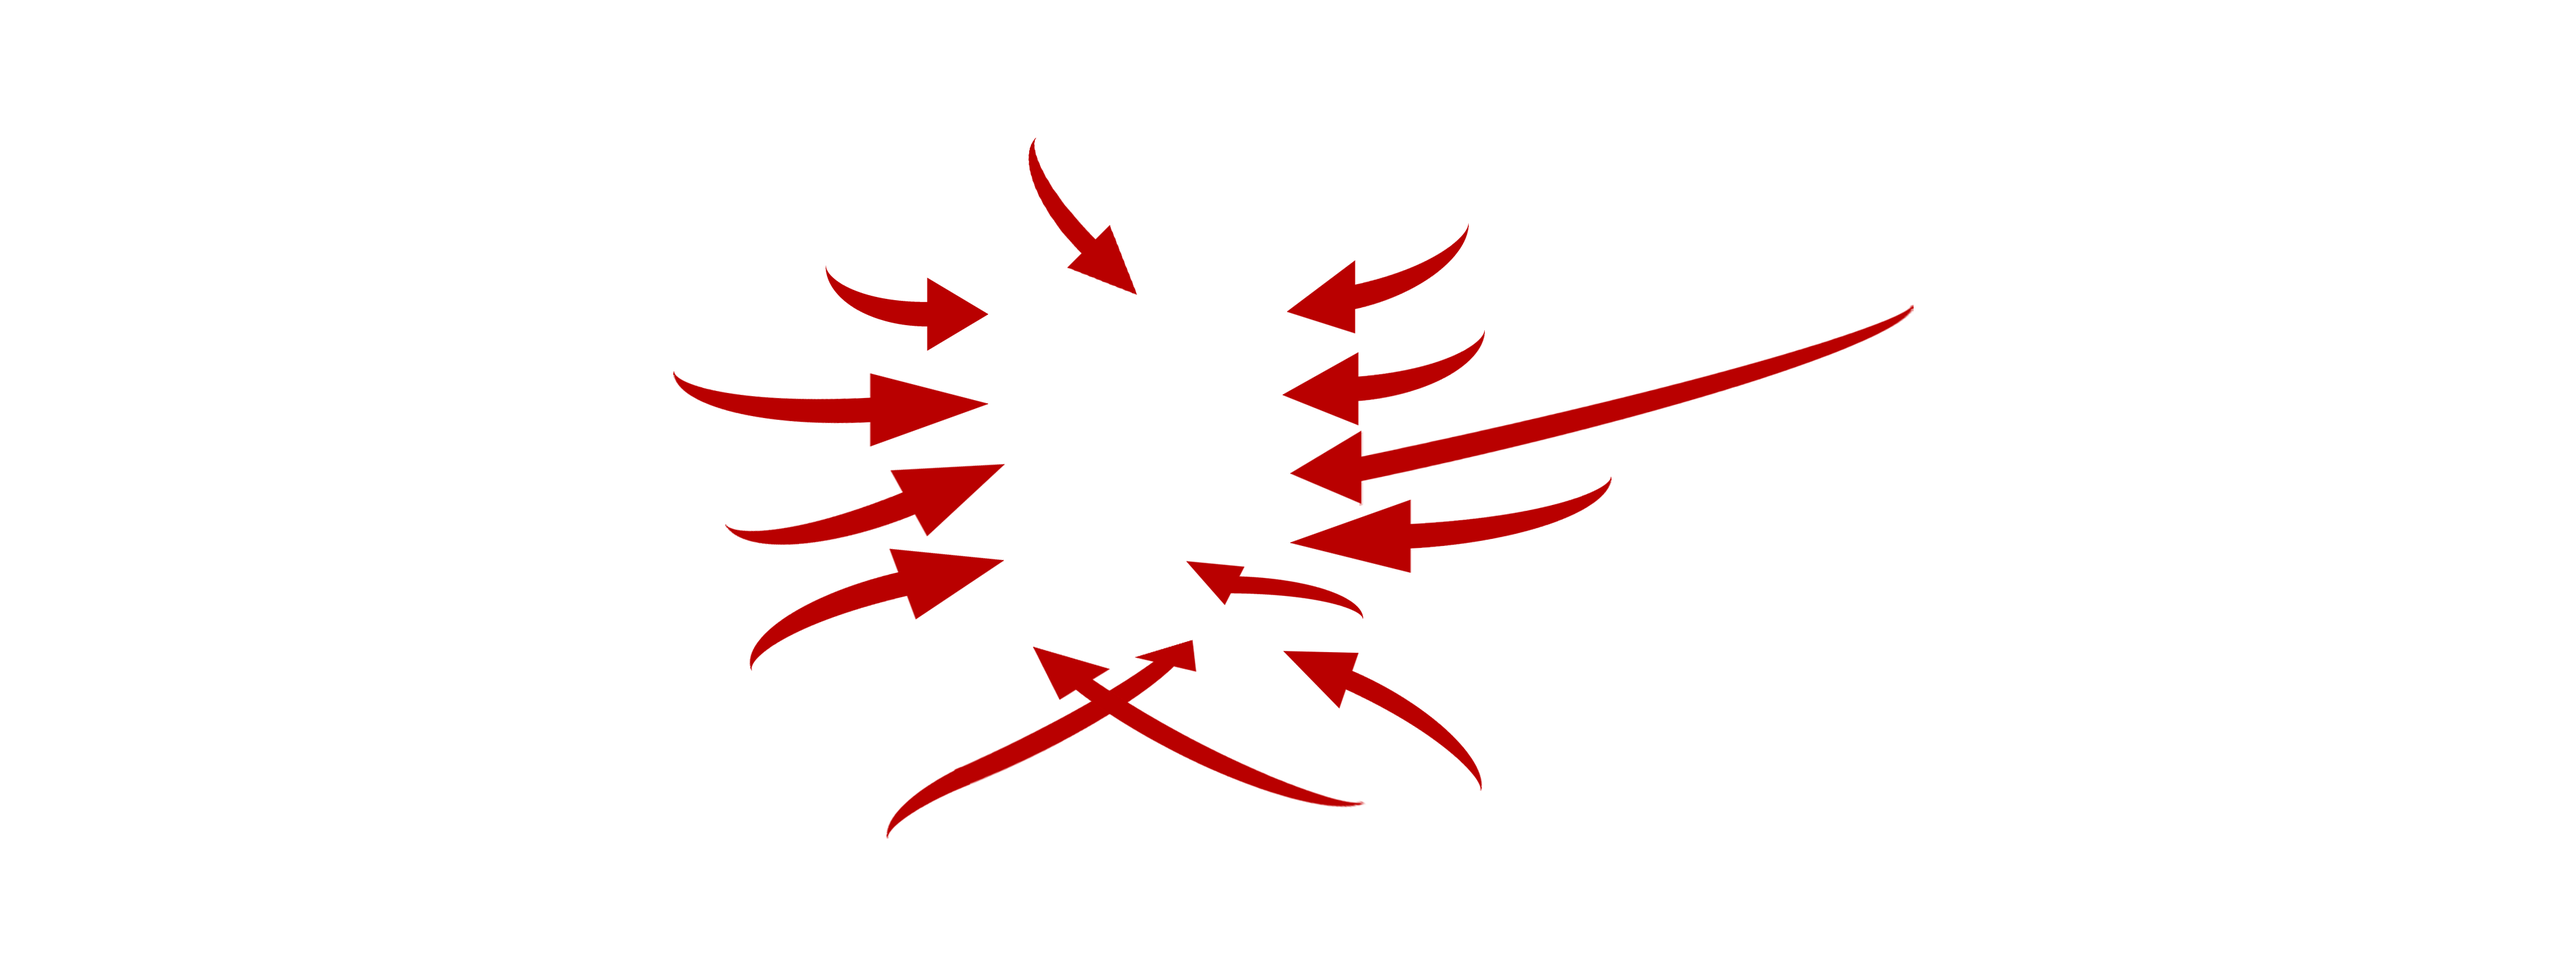
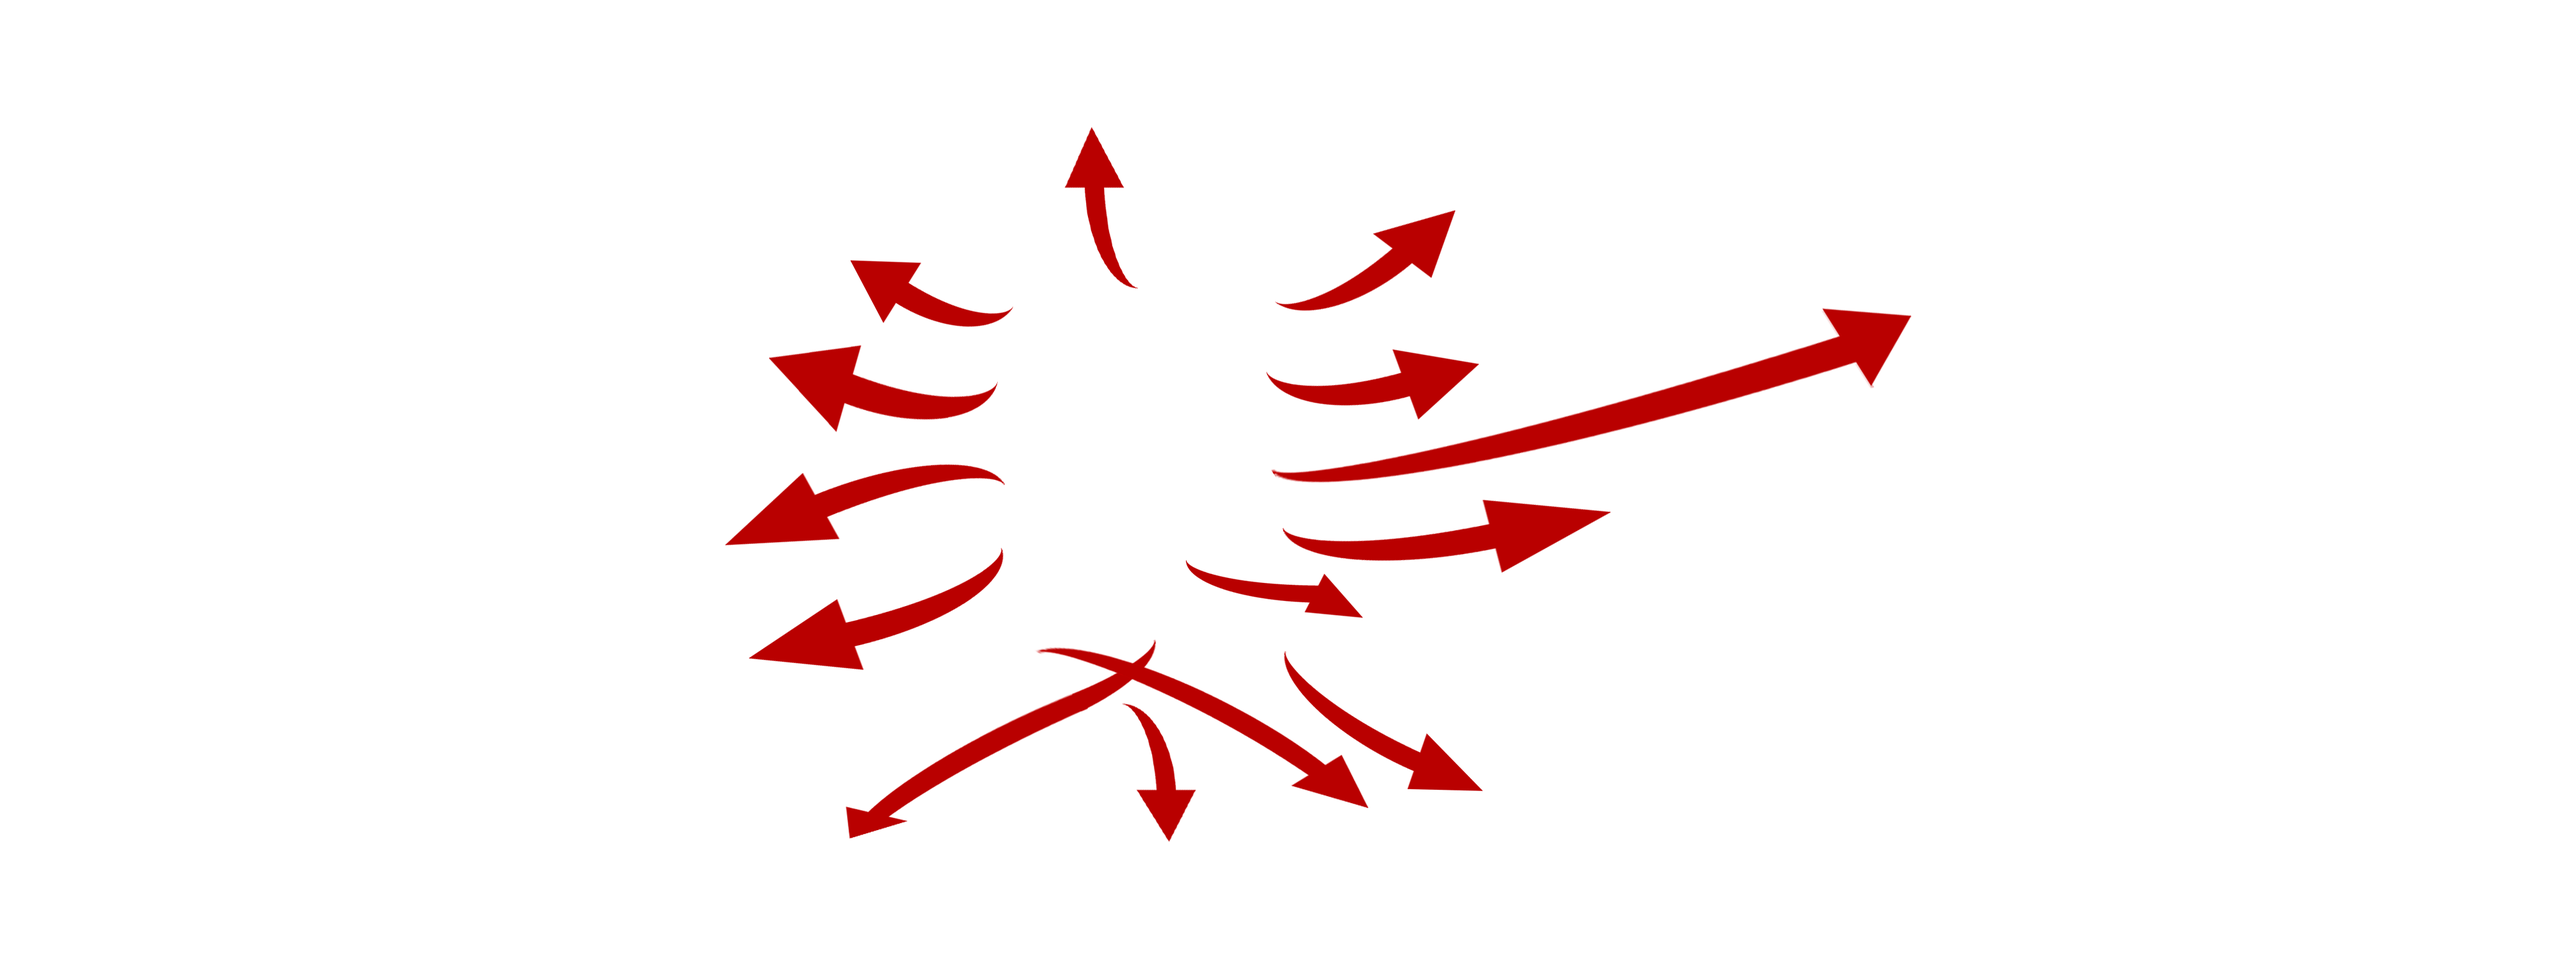
New tutorial & stability
Former-commit-id: 129ea352972af63821454c0f313ff1489410b518
Former-commit-id: 602a914253f8c2ef6c4f3580ddaa24cfcde0cdfe

diff --git a/src/node-drawing.js b/src/node-drawing.js
@@ -11,7 +11,7 @@ function DrawingManager(config) {
 	this.newDrawingObject = {};
 	this.style = {fill: "none", stroke: "white", "stroke-width": "5px", "stroke-linecap": "round"};
 	this.selectionBoxStyle = {fill: "none", stroke: "white", "stroke-width": "5px","stroke-dasharray": "10,10"};
-	this.drawingMode = true;
+	this.drawingMode = false;
 	this.drawState = [{id: "drawing_1",type: "path",options: { points: [{x: 100,y: 200}, {x: 200,y: 300}] }, style: this.style}];
 	this.drawingsUndone = [];
 	this.tilesPosition = [];
@@ -360,6 +360,11 @@ DrawingManager.prototype.enableDrawingMode = function(data) {
 	this.drawingMode = true;
 	this.paletteID = data.id;
 	this.sendStyleToPalette(this.paletteID,this.style);
+}
+DrawingManager.prototype.disableDrawingMode = function(data) {
+	console.log("Drawing mode disabled");
+	this.drawingMode = false;
+	this.paletteID = null;
 }
 
 DrawingManager.prototype.update = function(drawingObject, clientID) {

diff --git a/server.js b/server.js
@@ -780,6 +780,7 @@ function setupListeners(wsio) {
 	// DrawingState messages, should they have their own section?
 	wsio.on('updatePalettePosition',				wsUpdatePalettePosition);
 	wsio.on('enableDrawingMode',					wsEnableDrawingMode);
+	wsio.on('disableDrawingMode',					wsDisableDrawingMode);
 	wsio.on('clearDrawingCanvas',					wsClearDrawingCanvas);
 	wsio.on('changeStyle',							wsChangeStyle);
 	wsio.on('undoLastDrawing',						wsUndoLastDrawing);
@@ -951,6 +952,10 @@ function wsUpdatePalettePosition(wsio, data) {
 function wsEnableDrawingMode(wsio, data) {
 	drawingManager.enableDrawingMode(data);
 }
+function wsDisableDrawingMode(wsio, data) {
+	drawingManager.disableDrawingMode(data);
+}
+
 
 function wsClearDrawingCanvas(wsio,data) {
 	drawingManager.clearDrawingCanvas();

diff --git a/public/uploads/apps/WhiteboardPalette/WhiteboardPalette.js b/public/uploads/apps/WhiteboardPalette/WhiteboardPalette.js
@@ -368,6 +368,7 @@ var WhiteboardPalette = SAGE2_App.extend( {
 	,
 
 	quit: function() {
+		wsio.emit("disableDrawingMode",{id: this.id});
 		// Make sure to delete stuff (timers, ...)
 	},
 	handlePaletteTouch: function(x,y){
